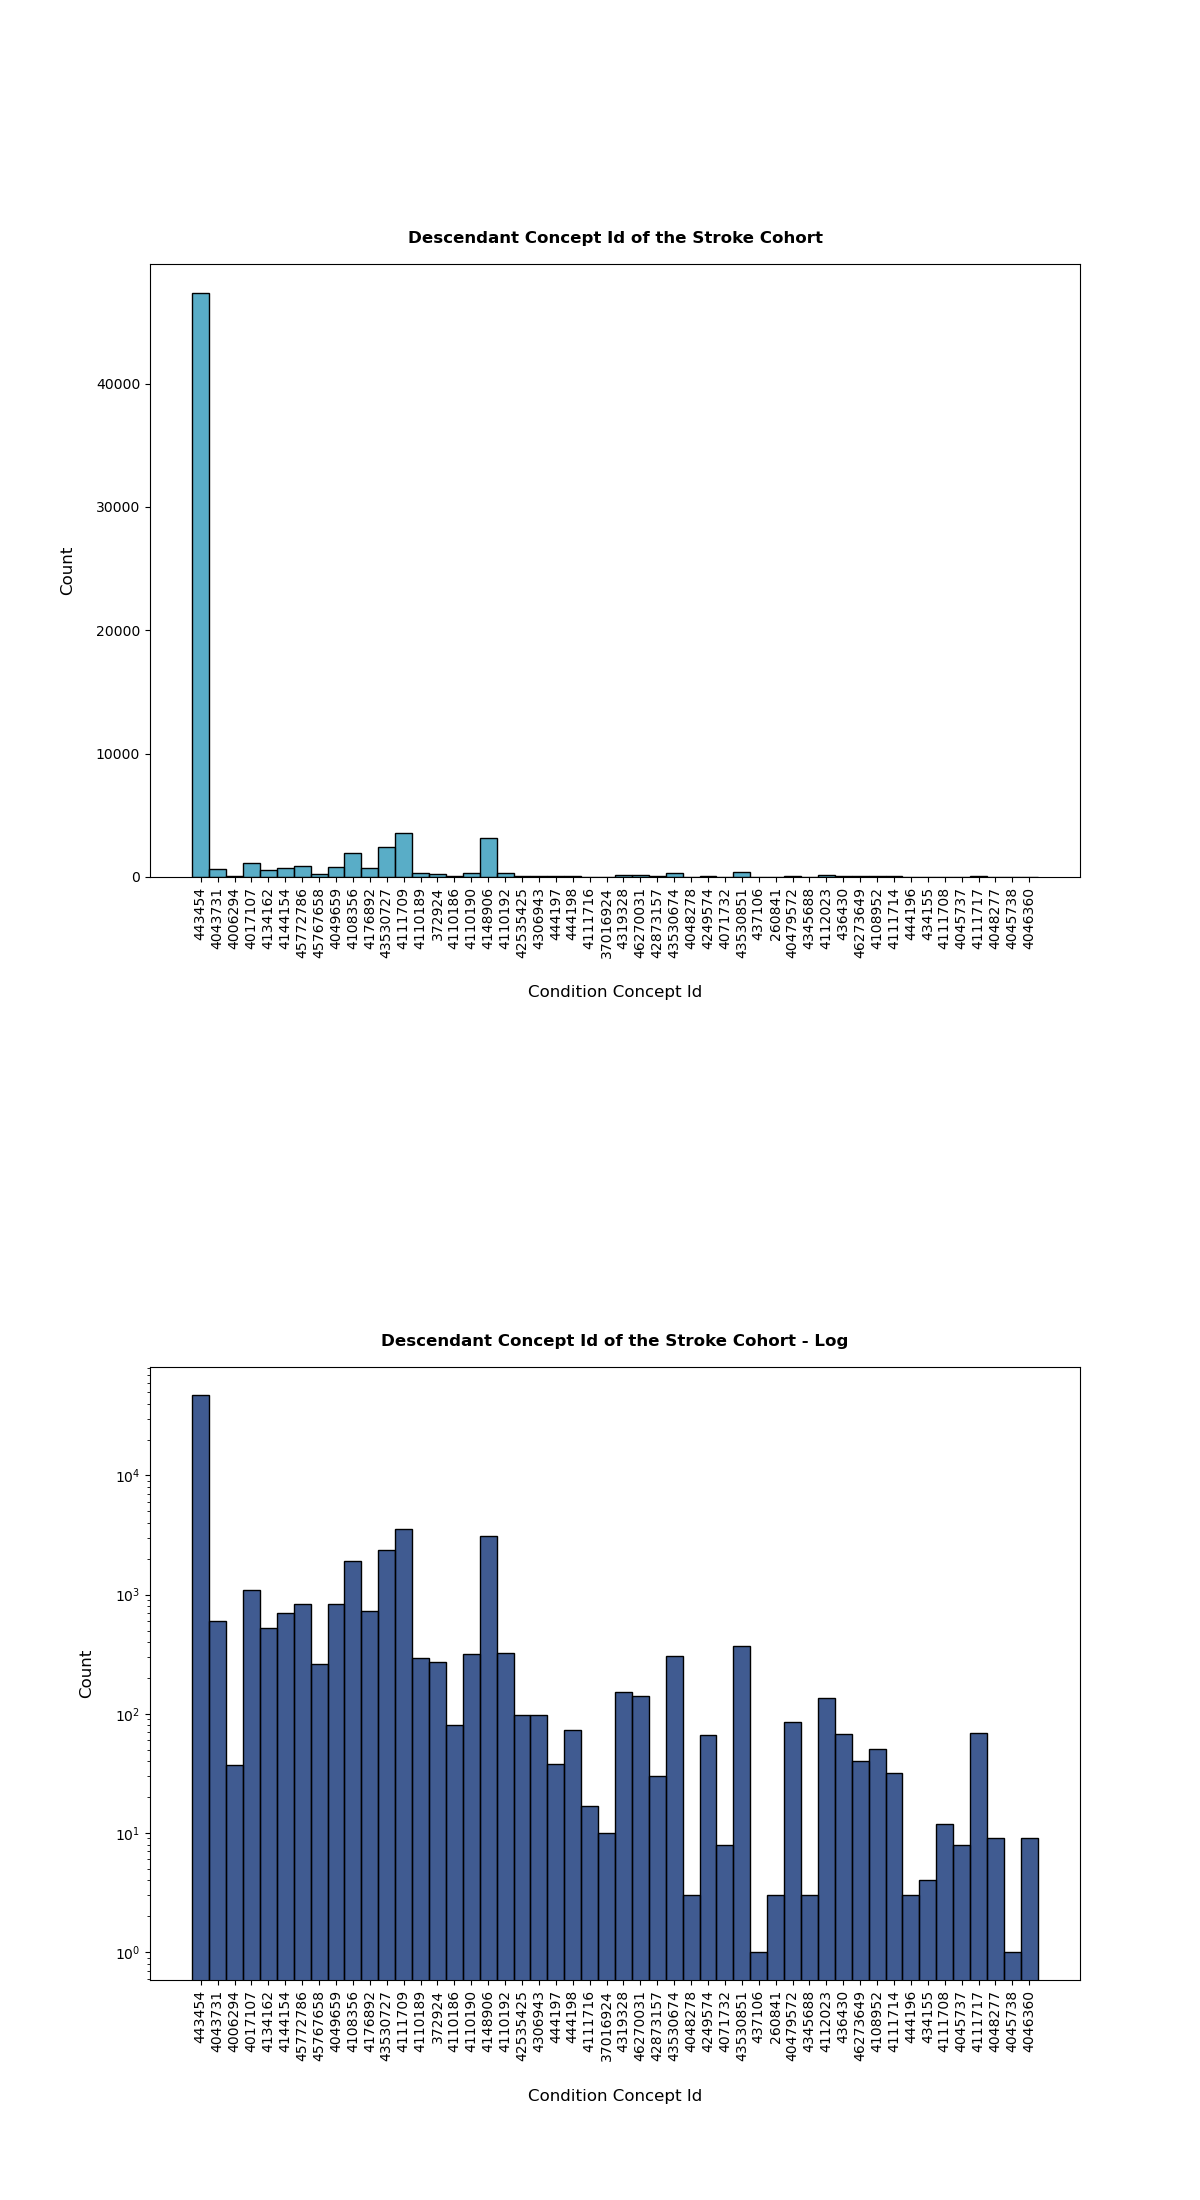
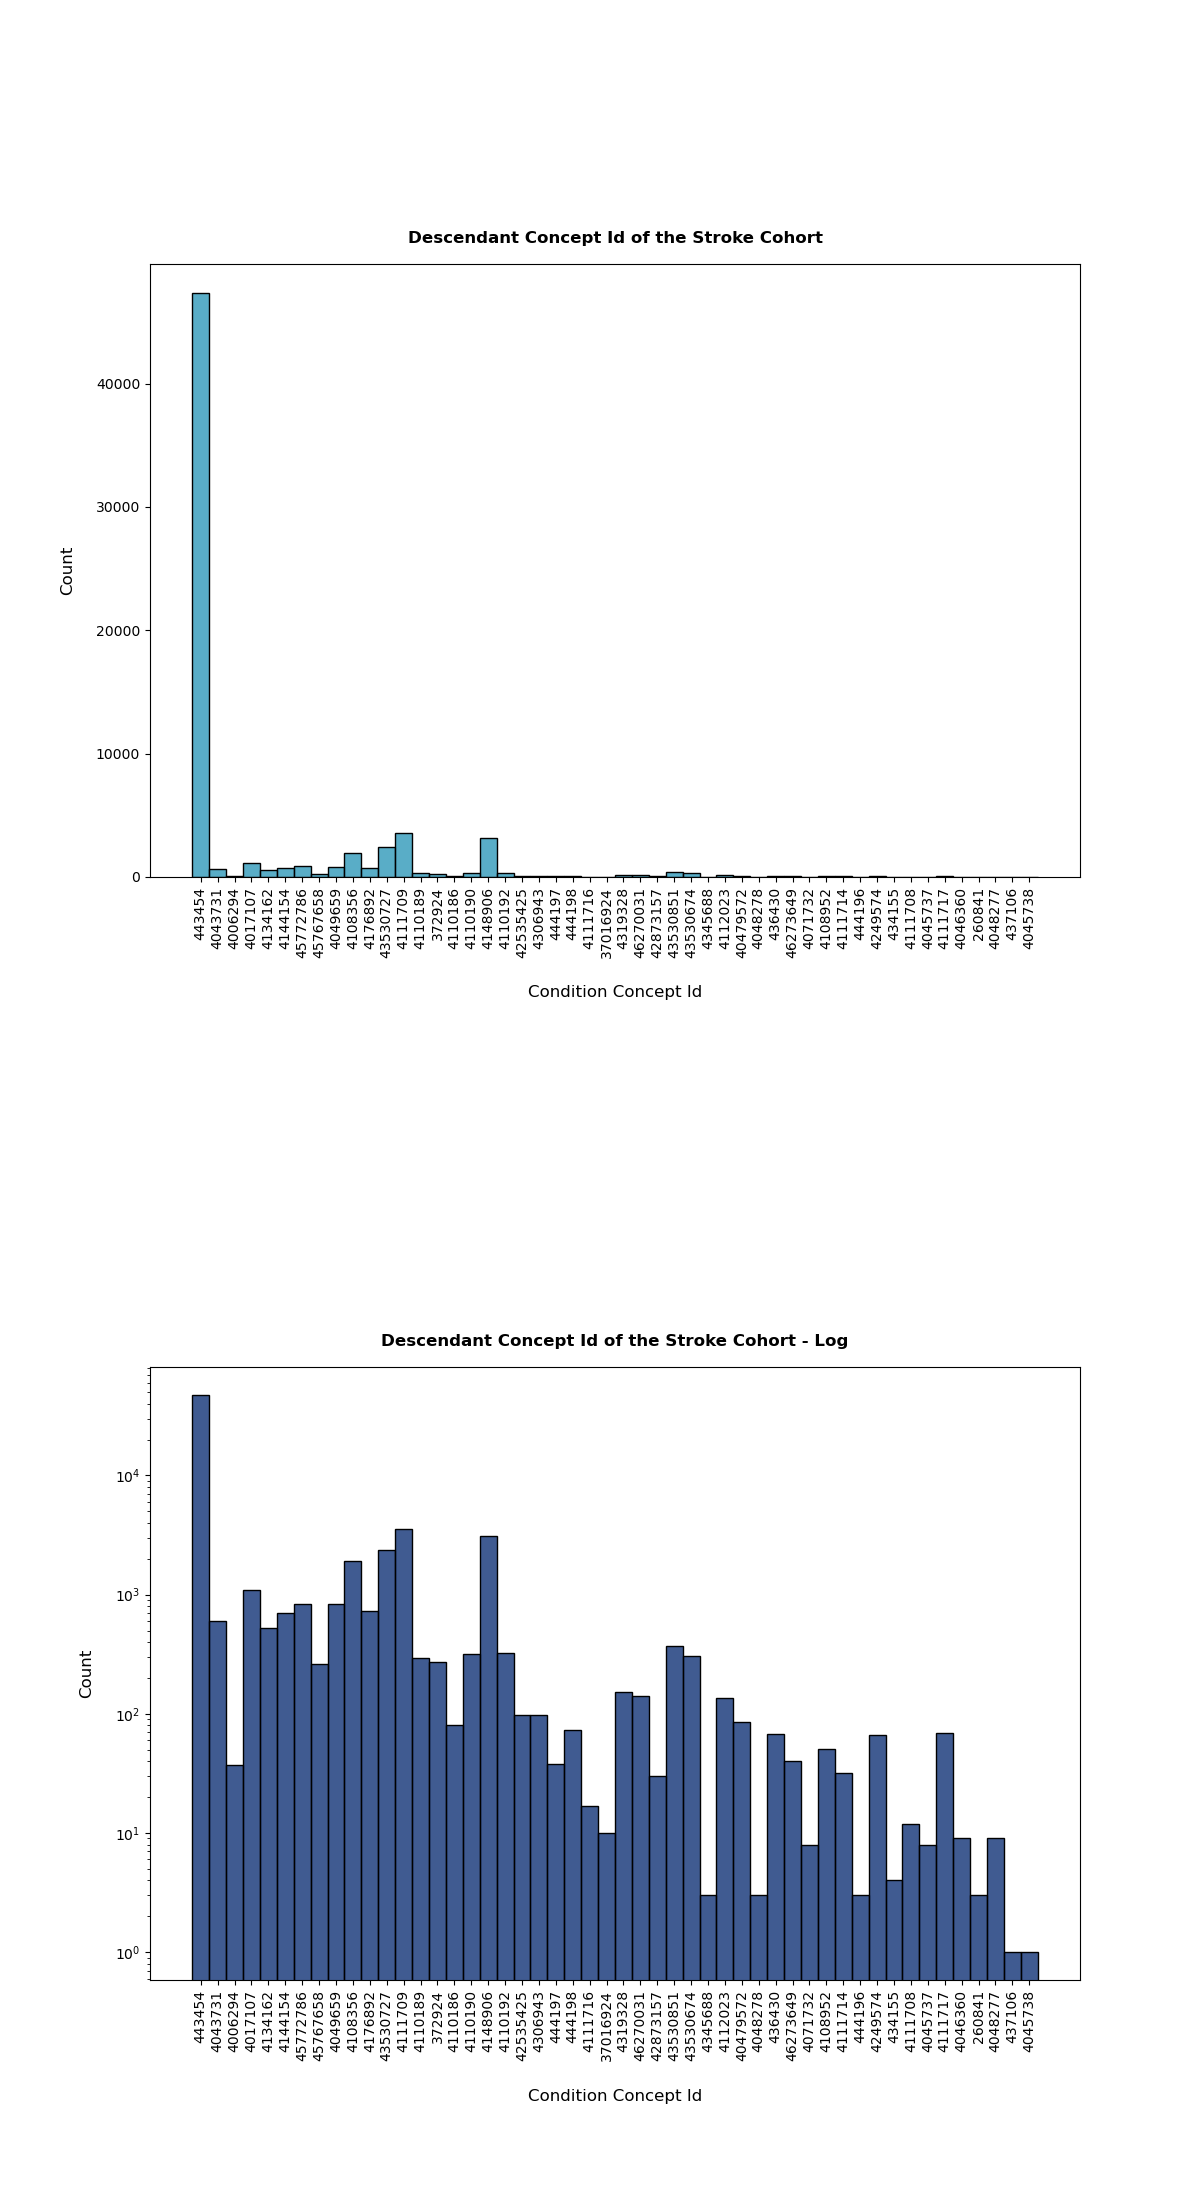
plot_aphas_true update

Changed region(s): [[0.555, 0.7418, 0.8942, 0.9273], [0.555, 0.4018, 0.8633, 0.4327]]

diff --git a/src/plot_stroke_type_aphasia_TRUE.py b/src/plot_stroke_type_aphasia_TRUE.py
@@ -25,11 +25,25 @@ print(df.info())
 df["ancestor_concept_id"] = df["ancestor_concept_id"].apply(str)
 
 # Plot.
-fig, ax = plt.subplots(2, 1, figsize=(10, 10))
-sns.histplot(data=df, x="ancestor_concept_id", ax=ax[0])
-sns.histplot(data=df, x="ancestor_concept_id", ax=ax[1])
+fig, ax = plt.subplots(2, 1, figsize=(12, 15))
+sns.histplot(data=df, x="ancestor_concept_id", hue="ancestor_concept_id", palette="ocean", shrink=0.9, ax=ax[0])
+sns.histplot(data=df, x="ancestor_concept_id", hue="ancestor_concept_id", palette="ocean", shrink=0.9, ax=ax[1])
+
+#plot 1 
+ax[0].set_title("Regular", weight="bold", fontsize=14, pad=20)
+ax[0].set_xlabel("Condition Concept Id", fontsize=14, labelpad=20)
+ax[0].set_ylabel("Count", fontsize=14, labelpad=15)
+
+#plot 2 - log 
 ax[1].set_yscale("log")
-fig.suptitle("7 stroke types for stroke cohorts with aphasia")
+ax[1].set_title("Log", weight="bold", fontsize=14, pad=15)
+ax[1].set_xlabel("Condition Concept Id", fontsize=14, labelpad=20)
+ax[1].set_ylabel("Count", fontsize=14, labelpad=15)
+
+#plot - all 
+ax[1].set_yscale("log")
+fig.suptitle("7 Stroke Types for Stroke Cohorts with Aphasia", fontsize=16, weight="heavy")
+plt.subplots_adjust(bottom=0.1, hspace=0.9)
+
 plt.savefig("figs/stroke_type_aphasia_TRUE.png", bbox_inches="tight")
-plt.tight_layout()
 plt.show()

diff --git a/docs/EDA.md b/docs/EDA.md
@@ -101,7 +101,7 @@ make stroke_ancestor
 make plot_stroke_type_aphasia_TRUE
 ```
 <br>
-<img src="../figs/stroke_type_aphasia_TRUE.png" width=600>
+<img src="../figs/stroke_type_aphasia_TRUE.png" width=900>
 <br>
 
 - As you can see '443454' code, which is Cerebral infarction, is still the most common case.
@@ -114,7 +114,7 @@ make plot_stroke_type_aphasia_TRUE
 make plot_stroke_type_aphasia_FALSE
 ```
 <br>
-<img src="../figs/stroke_type_aphasia_FALSE.png" width=600>
+<img src="../figs/stroke_type_aphasia_FALSE.png" width=900>
 <br>
 
 - As you can see '443454' code, which is Cerebral infarction, is still the most common case.
